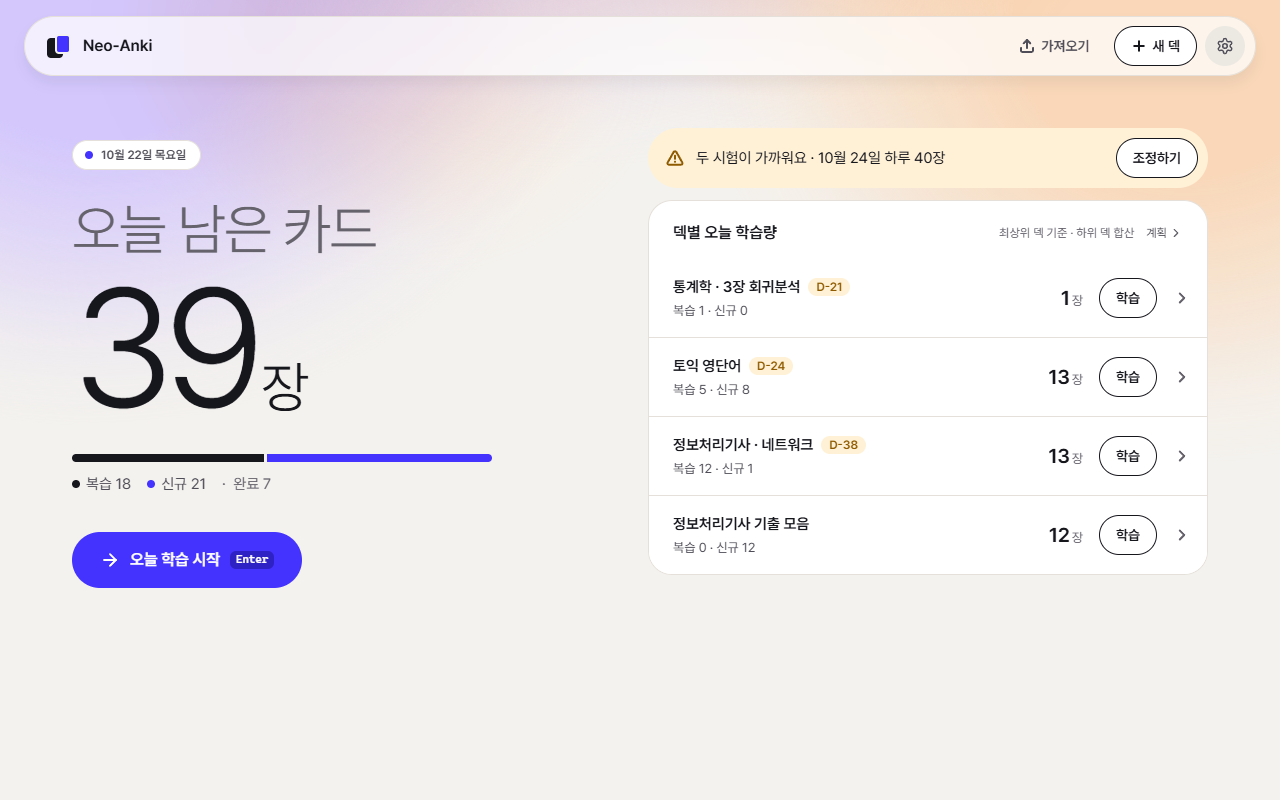
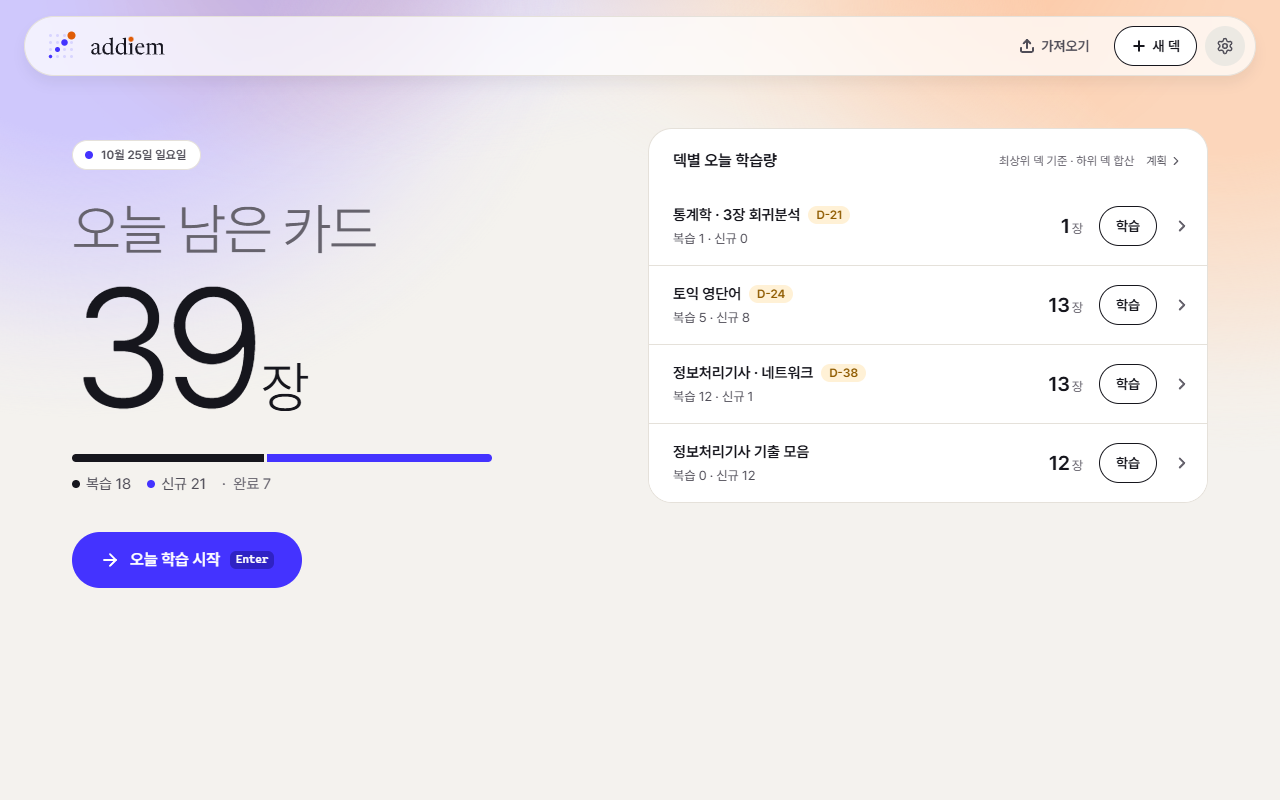
docs(readme): production README for Addiem 0.1.0 (Korean + English)
- README.md rewritten for the Addiem release: logo header (light/dark), badges, language switch, download link to Releases, SHA256SUMS check, migration note for Neo-Anki users (the installer removes the old program and keeps data), FAQ, third-party credits with licenses, Anki trademark note
- README.en.md: full English version (notes that the app UI is Korean)
- docs/images/readme: 9 screenshots recaptured from the real app with the new logo and fresh made-up data (home light/dark, deck goal, importance, source outline, deck update, card check, settings, hero); study-source, written-answer and note-type-editor are unchanged (no top bar)
- development.md: release checklist updated for Addiem (installer name, install folder, icons done, old-install hook)
- tauri.conf.json: bundle.copyright "© 2026 itisyijy"

diff --git a/README.en.md b/README.en.md
@@ -1,0 +1,207 @@
+<p align="center">
+  <picture>
+    <source media="(prefers-color-scheme: dark)" srcset="design/logo/addiem-lockup-dark.svg">
+    <img src="design/logo/addiem-lockup.svg" alt="Addiem" width="300">
+  </picture>
+</p>
+
+<p align="center"><b>Anki schedules your reviews. Addiem plans how you finish the material before your exam.</b></p>
+
+<p align="center">
+  <a href="https://github.com/itisyijy/Addiem/releases/latest"><img src="https://img.shields.io/badge/version-0.1.0-4433ff" alt="Version 0.1.0"></a>
+  <img src="https://img.shields.io/badge/Windows-10%20·%2011-16151f" alt="Windows 10 · 11">
+  <img src="https://img.shields.io/badge/Anki-.apkg%20·%20.colpkg-16151f" alt="Works with Anki .apkg · .colpkg">
+  <a href="LICENSE"><img src="https://img.shields.io/badge/license-MIT-16151f" alt="MIT license"></a>
+</p>
+
+<p align="center"><a href="README.md">한국어</a> · English</p>
+
+![The home screen with 39 cards left today, and the study screen showing card 7 of 39 with its linked lecture slide](docs/images/readme/hero.png)
+
+**Addiem** is an Anki-compatible flashcard app for exam preparation. It manages your exam goal and the quality of your cards together, so you learn the core material first and finish on time. The name comes from the Latin *ad diem*, "until the day". In the logo, the diagonal crosses a grid of days and reaches the orange dot: your exam day.
+
+The app's interface is in Korean.
+
+**[Download the installer](https://github.com/itisyijy/Addiem/releases/latest)** · [Install](#install) · [Getting started](#getting-started) · [Data and privacy](#data-and-privacy) · [Known limitations](#known-limitations)
+
+## Overview
+
+- **Keep your Anki decks.** Import `.apkg` and `.colpkg`, including review history. Or create a new deck and start right away.
+- **Set an exam date and importance per deck.** Addiem picks today's cards from the days left and each part's importance (core · normal · supplementary). Review intervals use FSRS.
+- **Link lecture material to cards.** Addiem reads highlights and headings from PDF and PPTX files, so you can open the slide a card came from while studying.
+- **Stored on your computer.** No account needed. Studying, importing and card checks work offline. Google Drive sync and ChatGPT are optional.
+- **See changes before they happen.** Importance suggestions, formatting fixes and deck updates show what will change first, and you confirm. Changes can be undone.
+
+## Features
+
+### Study
+
+The home screen shows the cards left today (reviews and new) and how many come from each deck. Press **Start today's study** and rate each card Again, Hard, Good or Easy. A whole session works from the keyboard (shortcuts are configurable).
+
+- A card you answer Again twice in one session is set aside so the rest come first. One hard card never blocks the day.
+- Built-in note types: basic, both directions, cloze, written answer, list, multiple choice and image occlusion. Sound, Anki `{{tts}}` read-aloud and math (KaTeX) work too.
+- Light, dark or follow-system theme. In Windows high-contrast themes, the logo and text use system colors.
+
+<p>
+  <img src="docs/images/readme/home.png" alt="Home with the cards left today and each deck's share" width="49%">
+  <img src="docs/images/readme/home-dark.png" alt="Home in the dark theme" width="49%">
+</p>
+
+### Plans and exams
+
+Give a deck an exam date and Addiem divides the remaining new cards by the days left (for example, 186 new cards ÷ 24 days = 8 a day). The formula and your progress are always shown.
+
+- Study plan: expected reviews and new cards per day, daily re-planning from your actual pace, weekday and weekend study time, and conflict handling when several exams overlap.
+- Pre-exam review (from 14 days before): **Compact** goes quickly through core parts, weak chapters and shaky cards; **Mixed** goes through the whole range and slips in the weak cards.
+- Past-exam marks: tag cards or source sections with the exams they appeared in, and those cards come first within the same importance.
+
+![A TOEIC vocabulary deck with its exam in 24 days, the share of started cards and the daily quota formula](docs/images/readme/deck-goal.png)
+
+### Source material and importance
+
+Add lecture PDFs or PPTX files to a deck. Addiem reads highlights, underlines, red text, bold text and ★ marks as **emphasized sections**, and heading structure as the **outline**. Sections whose titles contain words like "summary" or "core", or whose titles are highlighted, underlined, red or starred, are suggested as the **core range**. These are suggestions; you confirm importance yourself.
+
+- Link an emphasized section to a card, and while studying the **Linked source** button (shortcut S) opens that page.
+- Emphasized sections with no card yet are listed together, so missed material is easy to spot.
+- Select a figure or table in a PDF to make an image card or an image-occlusion card.
+
+<p>
+  <img src="docs/images/readme/source-outline.png" alt="The source screen with a PDF outline and a core-range suggestion" width="49%">
+  <img src="docs/images/readme/study-source.png" alt="Study screen with the linked-source panel open beside the answer" width="49%">
+</p>
+
+Importance is set per sub-deck, not per card. Addiem suggests a first layout from imported tags (such as `중요도::최우선`, "top priority"), sub-deck names (such as "요약", summary, or "부록", appendix) and source and past-exam marks. Hover a chip to see the reason in one line. Values you confirm are never overwritten by suggestions.
+
+![The importance screen with sub-decks sorted into core, normal and supplementary](docs/images/readme/importance.png)
+
+### Anki compatibility and deck updates
+
+- Import: Anki `.apkg` and `.colpkg` (deck structure, note types, tags, media, review history), JSON and CSV. Anything that can't be handled is reported on the result screen, never dropped silently. Source files are only read.
+- Export: decks as `.apkg` (with or without review history) or CSV.
+- **Deck updates:** when you get a new version of a deck you already imported, Addiem offers **Import as update**. Notes the author changed are updated; your own field edits, review history and schedule are kept. If you both changed the same field, you see them side by side and choose. A backup is made first, and you can undo just that update later.
+
+![An update summary showing changed notes, a conflict and new notes before applying](docs/images/readme/deck-update.png)
+
+To make cards with JSON, see the [JSON bulk import format](docs/engineering/json-import-format.md) (Korean).
+
+### Card quality
+
+Sometimes you keep failing a card because of how it's written, not because of your memory. Card check finds such cards with rules, on your computer:
+
+- Answers that are too long, or cards that ask several things → **Suggest a split**. Long cards that got Again twice or more in the last 14 days are listed separately.
+- Questions and answers that don't seem to match (for example, it asks for a "difference" but the answer is one word) → flagged with a one-line reason.
+- Numbers or items run together on one line → **Fix formatting**: the words stay the same; only line breaks, bold and separators change.
+
+Before applying, the current and fixed cards are shown side by side, and fixes can be undone for 7 days.
+
+![The fix-formatting dialog comparing the current card with the fixed card](docs/images/readme/card-check.png)
+
+### Written answers
+
+For written-answer cards, type your answer and press **Compare with answer**. Addiem marks which of the registered keywords appear in your answer and recommends a rating from them. You choose the final rating.
+
+- **Concept relation check (experimental):** download the model (about 1.1 GB) under Settings › Written answers, and Addiem looks for the relations in the model answer (cause → effect and so on) in your answer, showing "looks right / not found". It runs only on your computer, can be wrong, and is never used for the rating recommendation. Needs a CPU with AVX2.
+- If ChatGPT is connected, **Check with ChatGPT** gives a second look at the meaning.
+
+![A written-answer card with keyword checks, your answer next to the model answer, concept relation results and the linked source](docs/images/readme/written-answer.png)
+
+### Note types
+
+Create and edit note types (the templates that make cards). In the **easy editor**, drag fields onto the front and back, choose size and alignment, and preview with a real note. Use the **HTML** tab to edit HTML and CSS directly. Add card types (for example word → meaning and meaning → word) to get one more card per note.
+
+![The note type editor with fields, front and back layout, and a preview](docs/images/readme/note-type-editor.png)
+
+### Google Drive sync
+
+Back up to your own Google Drive automatically and continue on another computer with the same decks, cards and review history. Nothing passes through an Addiem server.
+
+- Only two permissions: files Addiem created (`drive.file`) and an app-only folder (`drive.appdata`). Other files in your Drive are never read.
+- Turn on **Lock with a password** to encrypt on your computer before uploading, so even Google can't read the content. If you forget the password, the data in Drive can't be opened (the data on your computer stays).
+- Disconnecting leaves the data on your computer as it is. Without Drive, make and restore backup files under Settings › Backups on this device.
+
+### Optional AI (ChatGPT)
+
+Connect your ChatGPT account to draft cards from your sources, get help grading written answers, group similar content, suggest wrong options for multiple choice, and check question–answer pairs in card check. It uses your ChatGPT plan; Addiem charges nothing extra. Requests are sent only when you press a button. Everything else works without it.
+
+![Settings with the Google Drive and ChatGPT connection sections](docs/images/readme/settings-drive-ai.png)
+
+## Install
+
+**Requirements**
+
+- Windows 10 or 11 (64-bit)
+- Microsoft Edge WebView2 Runtime. Windows 11 includes it; otherwise the installer downloads it (internet needed).
+
+**Installer:** download `Addiem_0.1.0_x64-setup.exe` from [Releases](https://github.com/itisyijy/Addiem/releases/latest). Use `SHA256SUMS.txt` from the same page to check the file is intact:
+
+```powershell
+Get-FileHash .\Addiem_0.1.0_x64-setup.exe -Algorithm SHA256
+```
+
+1. Run the installer. It installs for the current user without admin rights (`%LOCALAPPDATA%\Addiem`). The installer is shown in Korean or English, following the Windows display language.
+2. The app isn't code-signed yet, so a blue "Windows protected your PC" window may appear. Click **More info** → **Run anyway**.
+3. Open Addiem from the Start menu.
+
+- **If you used Neo-Anki:** Neo-Anki is Addiem's former name. Installing Addiem first removes the old Neo-Anki program (your study data stays) and opens with the same data. Backup folder and file names (`neoanki`) and the "Neo-Anki 백업" folder in Drive keep the old name so the data carries over.
+- **Updates:** there's no auto-update. Install the new version over the old one; study data is not deleted. The current version is shown at the bottom of Settings.
+- **Uninstall:** remove Addiem in Windows Settings › Apps. Study data stays. To delete it too, tick **Delete the application data** in the uninstaller.
+- If antivirus software (such as Microsoft Defender) blocks or removes the concept-relation engine (`llm\neoanki-llm.exe`), only that feature turns off (Settings › Written answers says the engine isn't installed). Keyword grading and everything else keep working.
+
+## Getting started
+
+1. On the first screen, create a deck with **New deck** (just a name), or bring in an Anki deck (`.apkg`, `.colpkg`) or a JSON or CSV file with **Import**.
+2. Set the exam date under the deck's **Goal and study settings**. Without one, the deck keeps reviewing with no deadline.
+3. In **Adjust importance**, check the suggested core · normal · supplementary layout and move only what's wrong. You can skip this and still study.
+4. If you have lecture PDFs or PPTX files, add them under the deck's **Sources**.
+5. On the home screen, press **Start today's study** or the Enter key.
+
+## Data and privacy
+
+- Decks, cards, review history, media and added sources are stored on your computer (`%APPDATA%\io.github.itisyijy.neoanki`). There is no Addiem server.
+- The internet is used only in these cases, each one turned on or pressed by you:
+  - **Google Drive sync:** uploads decks, cards, review history, settings, images and media, with only the `drive.file` and `drive.appdata` permissions. Source files (PDF, PPTX) and model files are not uploaded.
+  - **ChatGPT (optional AI):** sends only the card text and source excerpts shown on screen at that moment to OpenAI. Whole source files, images, review history and deck names are not sent.
+  - **Model downloads:** the analysis model (multilingual-e5-small, about 490 MB, for finding similar cards and linking sources to cards) and the concept relation model (Qwen2.5-1.5B-Instruct, 4-bit, about 1.1 GB) are downloaded from Hugging Face only when you press **Download**. Each file's size and SHA-256 are checked, and afterwards they run only on your computer.
+- Google and ChatGPT sign-ins and the sync lock key are stored only in Windows Credential Manager.
+- Read-aloud uses a voice that runs on your computer.
+
+## Known limitations
+
+- **Not code-signed.** SmartScreen warns when you first run the installer and the app (see [Install](#install)).
+- **Windows only.** No macOS, Linux or mobile apps.
+- **No auto-update.** Download and install new versions yourself.
+- **Google sign-in is limited to registered test users** until the Google OAuth consent screen is published.
+- **Concept relation check is experimental.** It's for reference and can be wrong. It needs a separate 1.1 GB download and a CPU with AVX2 (including FMA and F16C).
+- Anki add-ons aren't supported, and scripts (JavaScript) in card templates don't run. Cards that use them are reported in the import result.
+- No direct AnkiWeb sync. Exchange decks with Anki as `.apkg` files.
+
+## FAQ
+
+**Can I use it alongside Anki?**
+Yes. Addiem only reads Anki files and never changes them, and you can export a deck as `.apkg` back to Anki. Review history isn't merged automatically between the two apps, so study each deck in one app.
+
+**What happens after the exam date?**
+The deck keeps reviewing on FSRS intervals like a deck without an exam date. Set a new date and the plan is divided again.
+
+**How do I move my data to another computer?**
+Turn on Google Drive sync, or make a backup under Settings › Backups on this device and use **Restore from backup** on the other computer.
+
+## Documentation
+
+Design and engineering documents are in Korean.
+
+- [Product direction](docs/product/product-direction.md) · [MVP scope](docs/product/mvp-scope.md) · [MVP screen flow](docs/product/mvp-screen-flow.md)
+- [JSON bulk import format](docs/engineering/json-import-format.md)
+- [Deck updates](docs/engineering/deck-update.md) · [Note types](docs/engineering/note-types.md) · [Google Drive sync design](docs/engineering/drive-sync.md)
+- [UI copy guide](docs/design/copy-guide.md) · [Logo and brand](design/logo/README.md)
+- [Development](docs/engineering/development.md): build, run, checks, release checklist, structure, tools
+
+## Built with
+
+[Tauri](https://tauri.app) · [React](https://react.dev) · [FSRS](https://github.com/open-spaced-repetition/fsrs-rs) (BSD-3-Clause) · [KaTeX](https://katex.org) (MIT) · [PDF.js](https://mozilla.github.io/pdf.js/) (Apache-2.0) · [DOMPurify](https://github.com/cure53/DOMPurify) · [Pretendard](https://github.com/orioncactus/pretendard) (OFL-1.1) · wordmark lettering from [Newsreader](https://github.com/productiontype/Newsreader) (OFL-1.1) · read-aloud voice [Supertonic](https://huggingface.co/Supertone/supertonic-3) (OpenRAIL-M) · [ONNX Runtime](https://onnxruntime.ai) (MIT) · downloadable models [multilingual-e5-small](https://huggingface.co/intfloat/multilingual-e5-small) (MIT) and [Qwen2.5-1.5B-Instruct](https://huggingface.co/Qwen/Qwen2.5-1.5B-Instruct) (Apache-2.0)
+
+Anki is a trademark of Ankitects Pty Ltd. Addiem is an independent app, not affiliated with Anki.
+
+## License
+
+[MIT](LICENSE)

diff --git a/docs/engineering/development.md b/docs/engineering/development.md
@@ -5,9 +5,9 @@
 ## Documentation
 
 - [Anki 장기 사용자 인터뷰](../user-research/anki-power-user-interview.md)
-- [Neo-Anki 제품 방향](../product/product-direction.md)
-- [Neo-Anki MVP 범위](../product/mvp-scope.md)
-- [Neo-Anki MVP 화면 흐름](../product/mvp-screen-flow.md)
+- [Addiem 제품 방향](../product/product-direction.md)
+- [Addiem MVP 범위](../product/mvp-scope.md)
+- [Addiem MVP 화면 흐름](../product/mvp-screen-flow.md)
 - [MVP 다음 단계: 원자료 기반 중요도 판정](../product/post-mvp-source-analysis.md)
 
 ### 설계
@@ -139,13 +139,13 @@ npx tsc --noEmit
 
 ### 배포 체크리스트
 
-`npm run tauri build` 는 NSIS 설치 파일 하나(`Neo-Anki_<버전>_x64-setup.exe`)만 만든다. 현재 사용자에게 설치하고(`%LOCALAPPDATA%\Neo-Anki`, 관리자 권한 없음) 설치 화면은 한국어다(Windows 표시 언어가 영어면 영어). 첫 배포 전에 확인할 것:
+`npm run tauri build` 는 NSIS 설치 파일 하나(`Addiem_<버전>_x64-setup.exe`)만 만든다. 현재 사용자에게 설치하고(`%LOCALAPPDATA%\Addiem`, 관리자 권한 없음) 설치 화면은 한국어다(Windows 표시 언어가 영어면 영어). 첫 배포 전에 확인할 것:
 
 - [ ] **코드 서명**: 인증서(OV · EV 또는 Azure Trusted Signing)를 준비하고 `bundle.windows` 에 `certificateThumbprint` + `digestAlgorithm: "sha256"` + `timestampUrl`, 또는 `signCommand`(signtool 등)를 넣는다. 서명이 없으면 SmartScreen 경고가 뜬다. 확인은 `Get-AuthenticodeSignature <exe>`. **지금은 서명 없이 배포한다 (사용자 결정 2026-10-20, 공개 배포 전에 다시 정한다).** 설치하는 사람에게 함께 알릴 것:
   - 설치 파일이나 앱을 처음 열 때 "Windows의 PC 보호" 파란 창이 뜨면 **[추가 정보] → [실행]** 을 누른다.
   - 백신(Defender)이 서술형 개념 관계 확인 엔진(`llm\neoanki-llm.exe`)을 막거나 지우면 그 기능만 꺼지고(설정 › 서술형 채점에 "이 설치에는 엔진이 없어요"), 핵심어 채점과 나머지 기능은 그대로다.
-- [ ] **게시자 이름**: `bundle.publisher`(지금 `itisyijy`). 프로그램 추가/제거의 게시자, exe 의 CompanyName, NSIS 레지스트리 키 `HKCU\Software\<게시자>\Neo-Anki` 가 이 값에서 나온다. NSIS 는 이 키로 이전 설치 폴더를 찾으니 첫 배포 전에 정하고 그 뒤로는 바꾸지 않는다. 데이터 폴더 · 키체인 이름은 `identifier` 에서 나오므로 영향이 없다. `bundle.copyright` 도 아직 비어 있다.
-- [ ] **아이콘**: `src-tauri/icons/` 는 아직 Tauri 기본 아이콘이다. 로고가 정해지면 `npx tauri icon <1024px PNG>` 로 다시 만든다. 설치 파일 자체의 아이콘은 `bundle.windows.nsis.installerIcon`.
+- [ ] **게시자 이름**: `bundle.publisher`(지금 `itisyijy`). 프로그램 추가/제거의 게시자, exe 의 CompanyName, NSIS 레지스트리 키 `HKCU\Software\<게시자>\Addiem` 가 이 값에서 나온다. NSIS 는 이 키로 이전 설치 폴더를 찾으니 첫 배포 전에 정하고 그 뒤로는 바꾸지 않는다. 데이터 폴더 · 키체인 이름은 `identifier` 에서 나오므로 영향이 없다. `bundle.copyright` 는 `© 2026 itisyijy`.
+- [x] **아이콘**: Addiem 아이콘 (만드는 방법은 `design/logo/README.md`). 설치 파일 아이콘은 `bundle.windows.nsis.installerIcon`. 예전 이름(Neo-Anki) 설치는 NSIS 훅 `src-tauri/windows/hooks.nsh` 가 데이터를 남기고 먼저 지운다.
 - [ ] **Google OAuth**: 배포 빌드를 하는 셸에 `NEOANKI_GOOGLE_CLIENT_ID` · `NEOANKI_GOOGLE_CLIENT_SECRET` 을 넣는다. 빠져도 빌드는 성공하고 Drive 연결만 꺼지니(`option_env!`) 빌드 전에 확인한다. OAuth 동의 화면을 테스트에서 프로덕션으로 게시한다(테스트 상태에서는 등록한 테스트 사용자만 로그인된다).
 - [ ] **읽어주기 음성**: `tools\fetch_tts.ps1` 로 `src-tauri/resources/tts/` 의 11개 파일을 채운 뒤 빌드한다. 비어 있어도 빌드는 성공하고 OS 음성으로만 읽는다.
 - [ ] **개념 관계 확인 엔진**: `tools\build_llm.ps1` 로 `src-tauri/resources/llm/neoanki-llm.exe` 를 만든 뒤 빌드한다(없으면 릴리스 빌드가 멈춘다). 엔진 exe 도 본체처럼 코드 서명하지 않으면 SmartScreen · Defender 가 막을 수 있다.
@@ -173,7 +173,7 @@ npx tsc --noEmit
 
 ```bash
 python tools/import_reference.py --self-test     # 스키마 자체 검사
-python tools/import_reference.py <파일.colpkg>    # Anki 패키지 -> Neo-Anki 스키마
+python tools/import_reference.py <파일.colpkg>    # Anki 패키지 -> Addiem 스키마
 python tools/import_reference.py <파일.json>      # JSON 일괄 가져오기
 python tools/queue_reference.py                  # 큐 알고리즘 테스트
 python tools/queue_reference.py <적재된.sqlite>   # 실제 데이터로 큐 구성
